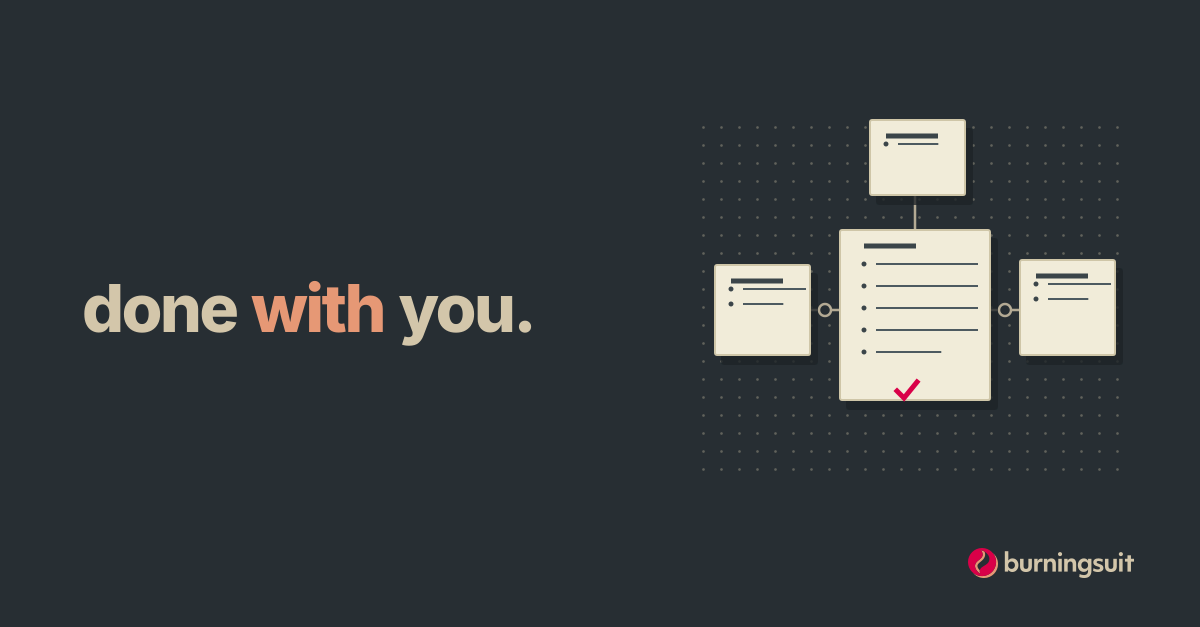
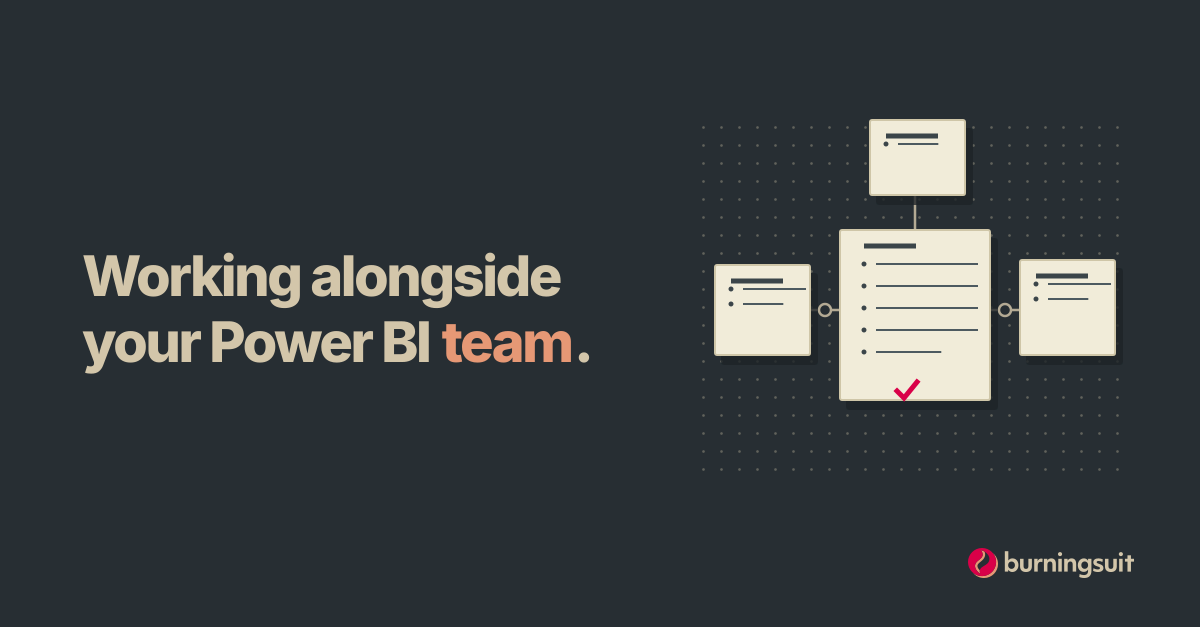
Apply the review follow-ups Alan approved on 17 September
Footer gains a text link explaining the free hour on every page; the
Power BI title and description name Fabric again; the hero section links
include Discovery with its price; the law-firm exhibit links to all four
case studies; Home's sign-off sentence links to the chapter for the person
leading the work; the Home hero regains a tenure sentence within the
ledger ceilings; the AI chapter regains main's signed sentence about
decisions and responsibility; the privacy notice records the Core Web
Vitals the tracker collects and carries today's date.

The Power BI share card is re-rendered from the current H1 and the
render script now finds the font file from the built @font-face rules
(Astro 6.4 hashes the cache). Default and Power BI share-card alt text
describe the images as they are. AGENTS.md and the implementation record
are reconciled with HEAD: the Cal.com event verified, the copy signed off,
the figures exception and the government clause withdrawal recorded.

Changed region(s): [[0.0617, 0.3939, 0.4933, 0.6061]]

diff --git a/docs/ownership-redesign-implementation.md b/docs/ownership-redesign-implementation.md
@@ -4,11 +4,13 @@ This pass implements `ownership-redesign-review.md` on `feat/ownership-redesign`
 
 ## Inputs still to replace before release
 
-- Alan confirmed `BOOKING_URL` as `https://cal.com/alan-burningsuit/hour` on 9 September 2026. The event configuration still needs checking against the release requirements: retain the old `30min` event live but unlisted and include the two required questions, “What does your team need to be able to do that it can't yet?” and “What's been tried so far, and by whom?” The event description should match the hour page.
-- The hour page, both hero signatures and the Power BI AI chapter use branch draft copy. Alan will supply final wording and confirm the positional attribution names.
-- Alan supplied the essay text and reference slide deck on 9 September 2026. The dummy MDX and four figure placeholders have been replaced. Publication dates and confirmed talk venues/year remain unset; none have been invented.
-- The About revert awaits Alan's final sign-off.
-- The Power BI share image remains the existing image, with alt text accurately describing its “done with you” wording, pending Alan's replacement.
+- `BOOKING_URL` is `https://cal.com/alan-burningsuit/hour` (confirmed 9 September 2026). The live event was checked on 16 September 2026: 60 minutes, both required questions (“What does your team need to be able to do that it can't yet?” and “What's been tried so far, and by whom?”) rendered on the booking form, and a description matching the hour page. The old `30min` event remains live and carries neither question.
+- The hour page, both hero signatures, the Power BI AI chapter and the About revert were signed off by Alan as they stand on 17 September 2026, and the positional attribution names (header, footer, home-hero, home-situations, power-bi-hero, power-bi-pricing, hour-page, work) were confirmed the same day. The AI chapter also regained main's signed sentence about decisions and responsibility on that date.
+- Alan supplied the essay text and reference slide deck on 9 September 2026. The dummy MDX and four figure placeholders have been replaced. Publication dates and confirmed talk venues/year remain unset; none have been invented. On 17 September 2026 the Daniel story was blunted so it no longer shares an identifying detail with the law-firm study (see the 17 September note below); Alan's review of that edit is outstanding.
+- The Power BI share image was re-rendered from the current H1 on 17 September 2026 (`scripts/render-linkedin-featured.mjs`, which now reads the built `@font-face` rules to find the font file); its alt text and the default card's alt text describe the images as they are.
+- Essay figures 3 and 4 keep the playful treatment Alan asked for on 11 September (warm shading, tilted labels, decorative strokes). Alan reaffirmed this on 17 September 2026 as a deliberate exception to the design language's flat-surface and ornament rules; it is not an open finding.
+- On 17 September 2026 Alan approved the blunted Daniel story as drafted, and supplied the talk's three deliveries for the essay's `givenAt`: Bristol Power BI User Group (19 February 2026), Manchester Power BI User Group (26 March 2026) and DataSwindon (2 April 2026). The years for Bristol and DataSwindon are taken to match Manchester; confirm if different. `datePublished` is still to be set on the day the essay goes live.
+- Alan decided on 17 September 2026 that the About clause "large systems, some of it for government" stays withdrawn, and that the Home hero regains a tenure sentence within the ledger ceilings (about five years with Power BI and Fabric teams, a decade in software before that).
 
 ## Implementation decisions
 
@@ -147,3 +149,11 @@ The software-tenure sentence is removed from the Home teaser. About's repeated o
 The shorter teaser also exposed a 320px keyboard-focus edge case: native scrolling fitted the link box but clipped its offset outline when returning from the footer. The teaser now has no extra outline gap, so its ring remains fully visible without changing layout. The original geometry and contrast assertions are retained. All twelve affected visual tests pass with reviewed baselines, including three downstream one-pixel alignment changes.
 
 The final gate and all 142 functional checks pass, including the previously failing footer-to-teaser keyboard checks in normal motion, reduced motion and without JavaScript. This revision is committed locally for review, without a remote push.
+
+## Reconciliation with main and review follow-up — 17 September 2026
+
+Main's 15 September commit (Umami `data-domains` and `data-performance` attributes with their `csp.spec` assertions, the sixth legacy-redirect sweep, and the gitignore guard for analytics exports) was merged into the branch. Only `AGENTS.md` conflicted and was resolved toward the branch's description of the rewritten pipeline. The gate then checked 12 pages and 51 redirect stubs and all 148 Chromium functional checks passed against the merged build.
+
+Following the 16 September branch-versus-main review, the essay's Daniel story no longer names the specific kind of figure or the side system that produced it; the passage now describes figures the team kept outside the source system in general terms, the company description loses one adjective, and the closing paragraph no longer places Alan inside the engagement. The essay's closing link now leads to About rather than the Power BI AI chapter. No new details were invented; the argument is unchanged. These edits await Alan's read.
+
+Also in this pass: the footer on every page gains a text link explaining the free hour beneath the booking controls; the Power BI title and description name Fabric again; the Power BI hero's section links include Discovery with its price; the law-firm exhibit links to all four case studies; and Home's sentence about signing off a proposal links to the Power BI chapter for the person leading the work. Visual baselines have not yet been refreshed for these changes.

diff --git a/AGENTS.md b/AGENTS.md
@@ -12,7 +12,7 @@ styles live in `src/styles/` (`tokens.css` + `app.css`).
 
 Header navigation is Power BI, Case studies and About, followed by **Book an hour**. Home introduces the work and case studies, with three unnumbered links to the reporting, learning and handover sections on Power BI. All former situation anchors remain valid. `/hour/` explains the free call and is linked from both heroes and Home's situation section; booking buttons go directly to Cal.com. Explanatory links use text styling, while ghost buttons remain the email alternative. Power BI's `#start` explains the first conversation and `#pricing` contains the ongoing price guide; `#ongoing` remains a valid alias within that chapter. The four `/work/<slug>/` studies and `/writing/<slug>/` essays are MDX collections. There is one essay, so `/writing/` redirects to it until a second essay warrants an index. The retired AI Fit route redirects to `/power-bi/#ai`; legacy blog redirects retain their Power BI destination. Privacy and 404 complete the reading routes.
 
-On `feat/ownership-redesign`, Alan has confirmed the booking event URL and supplied the essay text and reference slides for its four figures. Publication dates and confirmed talk venues remain outstanding. See `docs/ownership-redesign-implementation.md` for the remaining release inputs.
+The branch carries main's 15 September 2026 analytics and redirect fixes (merged 17 September). The Cal.com hour event was verified on 16 September: 60 minutes, both required questions, and a description matching the hour page. Alan signed off the hour page, both hero signatures, the AI chapter, the About revert and the attribution names on 17 September; the essay carries its three talk venues. Still outstanding before release: the essay's `datePublished` (set on the day it goes live) and a refresh of the visual baselines. See `docs/ownership-redesign-implementation.md` for the release record.
 
 ## Writing guidance
 
